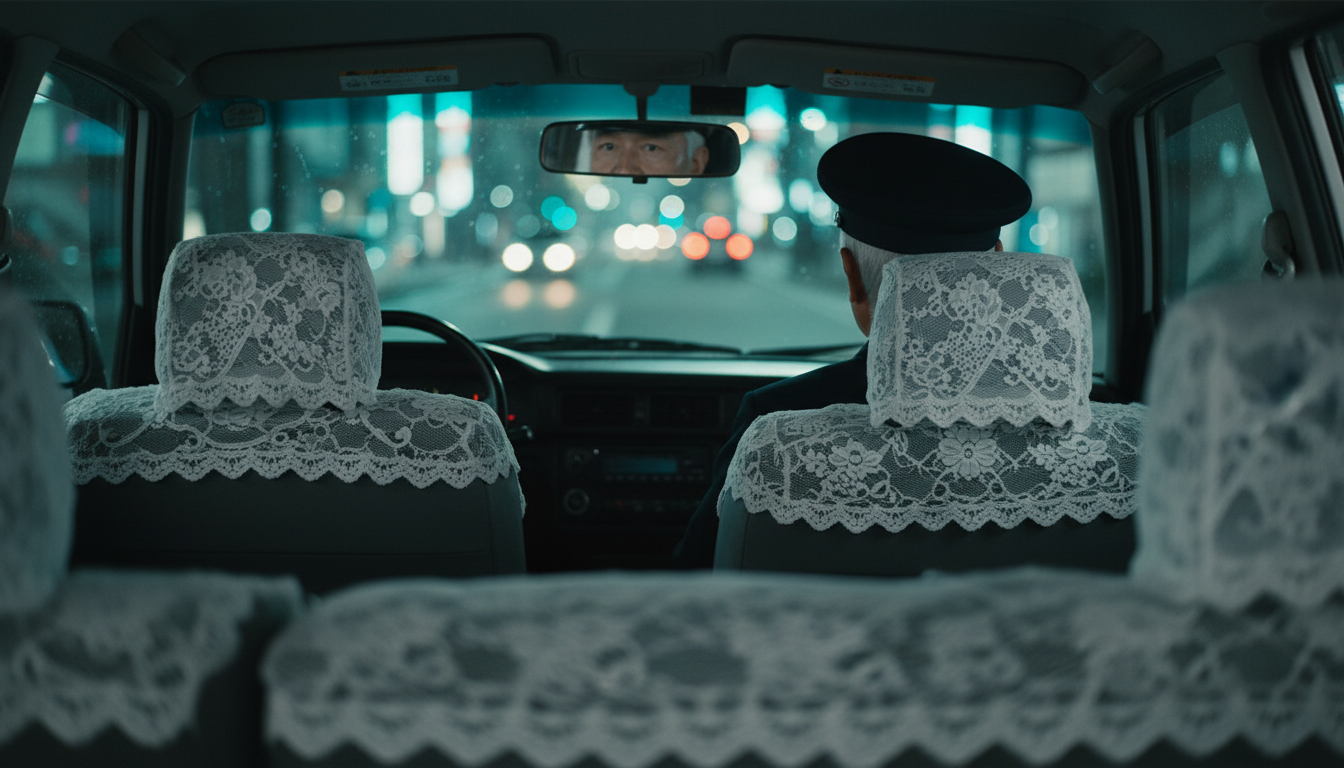
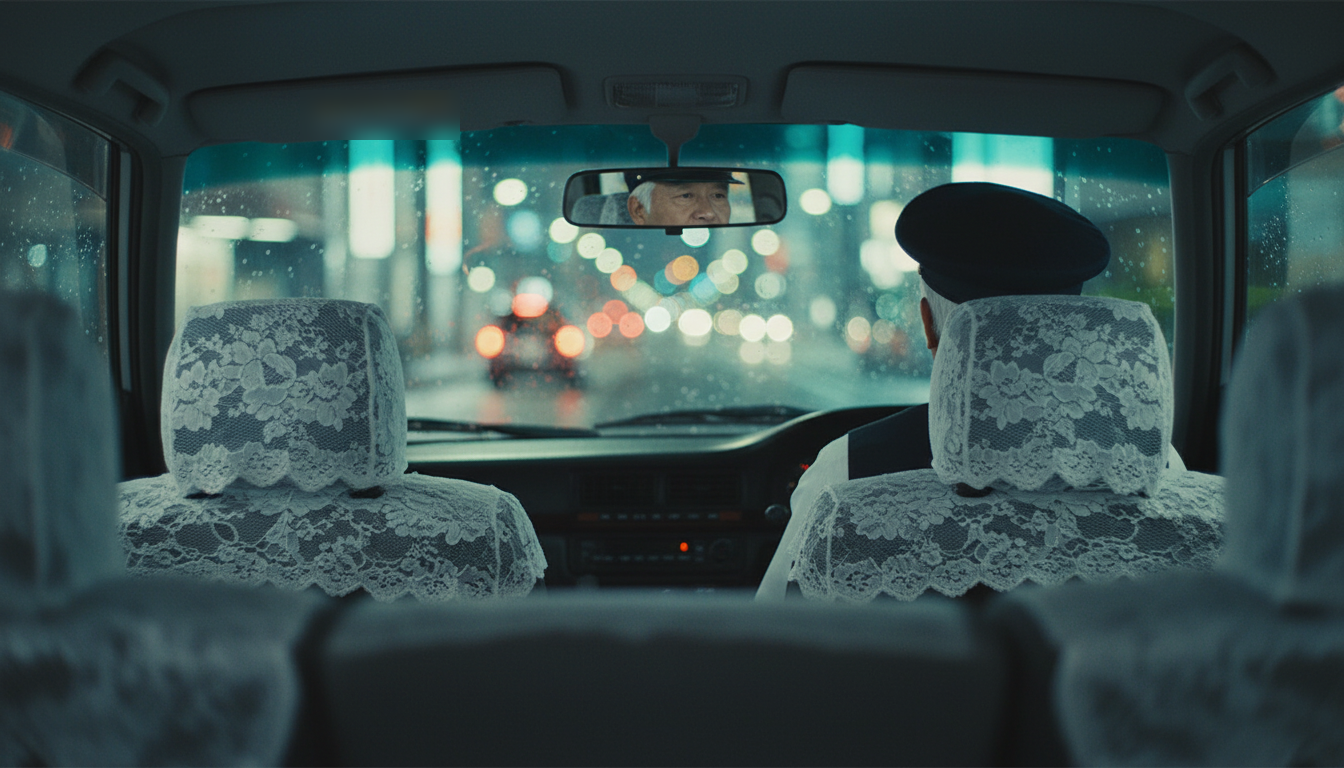
untenshu: R56 S05a 뒤에서 본 세 사람 앞보기, R57 듣는 사람 합성 마스크 얼굴 전체, R58 S15g 우핸들(반전)
Claude-Session: https://claude.ai/code/session_01P5TkBLDpA7gf9KcUyXo4TR

diff --git a/scripts/finalize_untenshu.py b/scripts/finalize_untenshu.py
@@ -43,10 +43,9 @@ NORM = f"scale={W}:{H}:force_original_aspect_ratio=increase,crop={W}:{H},fps=24,
 # 듣는 사람 합성: (말하지 않는 사람 i2v, 마스크 도형(키프레임 1344x768 좌표), 편집 카메라, 반복 필요 여부)
 LISTEN = {
     "S06e": ("assets/preview/untenshu-drv/scene01.mp4", [("rect", 0, 0, 511, 768)], "dutch5+hh"),
-    "S05e": ("assets/preview/untenshu-listen/scene01.mp4",
-             [("ell", 160, 40, 440, 320), ("poly", [(150, 320), (570, 320), (585, 768), (125, 768)])], ""),
+    "S05e": ("assets/preview/untenshu-listen/scene01.mp4", [("poly", [(0, 0), (640, 0), (640, 360), (585, 420), (570, 768), (0, 768)])], ""),   # R57 얼굴 전체가 한 클립에서(경계가 얼굴을 가르면 번짐)
     "S07e": ("assets/preview/untenshu-listen/scene02.mp4",
-             [("ell", 360, 100, 585, 360), ("poly", [(330, 370), (600, 370), (610, 768), (300, 768)])], ""),
+             [("poly", [(290, 80), (640, 80), (632, 405), (578, 468), (495, 700), (430, 768), (290, 768)])], ""),   # R57 얼굴 전체 포함
     "S10b": ("assets/preview/untenshu-fix2/scene01-3s.mp4", [("rect", 0, 0, 600, 768)], ""),   # R45 새 구도: 기사 앞 왼쪽
 }
 FX = {"S20a": "dutch7",
@@ -56,7 +55,6 @@ REDO = {
     "S06c": ("assets/preview/untenshu-fix1/scene01.mp4", 0.0, None),     # 룸미러 손님 2명(R42)
     "S06d": ("assets/preview/untenshu-fix1/scene02.mp4", 0.0, None),     # 大塚 옆 小川(R42)
     "S10a": ("assets/preview/untenshu-fix1/scene03.mp4", 0.0, None),     # 뒷좌석 무릎 위 액자(R45)
-    "S15g": ("assets/preview/untenshu-fix2/scene02.mp4", 0.0, None),     # 뒷좌석 시점 룸미러(R48)
     "S13a": ("assets/preview/untenshu/scene60.mp4", 0.0, 1.2),           # 모자가 손에 있는 구간까지 → 정지(R46)
     "S09c": ("assets/preview/untenshu/scene38.mp4", 0.0, 0.15),          # 지폐가 좌석에 놓인 첫 프레임 정지(R43)
     "S17a": ("assets/auditions/untenshu-s10b-omni/omni-S17a.mp4", 0.0, None),   # 배경 고정 립싱크(R50)
@@ -65,7 +63,7 @@ REDO = {
     "S18f": ("assets/auditions/untenshu-omni2/omni-S18f.mp4", 0.0, None),       # 당황·홍조·땀(R52)
     "S23c": ("assets/auditions/untenshu-s23c-omni/omni-S23c.mp4", 0.0, None),   # 미소 짓는 小川 립싱크(R55)
 }
-STILL_REDO = ["S06b", "S05b", "S08a", "S23b", "S13c"]   # 새 키프레임 정지+편집 카메라(R41·R42·R47)
+STILL_REDO = ["S06b", "S05b", "S08a", "S23b", "S13c", "S05a", "S15g"]   # 새 키프레임 정지+편집 카메라(R41·R42·R47·R56·R58)
 # (말하는 컷, 대사 태그, 듣는 사람 반응 클립 장면, 반응 길이) — 같은 장면의 역방향 반응(제10장 8)
 LCUT_OFF = True   # 고니감독님 「말하는 사람과 화면 인물 일치」(R44) — 듣는 사람 L컷 사용 안 함
 LCUT = [("S05e", "L07", "S05c", 1.3), ("S06e", "L11", "S06c", 1.2), ("S07e", "L14", "S07d", 1.3),

diff --git a/CLAUDE.md b/CLAUDE.md
@@ -380,7 +380,7 @@ deformed eyes, extra fingers.
 8. **전달**: 28MB 조각 + 480p + 한국어 자막 검수판(금액 통화 표기) + 업로드 패키지(제목 2안·설명 챕터·태그·SRT·썸네일 2종·쇼츠 5편과 그 한국어 검수판, 수익화 후 광고 타임코드). 도구 `make_shorts.py`·`make_thumbnails_ashita.py`·`make_ko_review_shorts_ashita.py`, 상세 `docs/제작규격-보강-ashita실증.md` 3-2절.
 9. **비립싱크 화자 컷은 정지 + 편집 카메라(2026-10-12 실증)**: 말하는 사람의 뒷모습·옆모습 i2v는 머리 고정 문장을 넣어도 2회 연속 카메라 쪽으로 돌아봤다(8컷 중 7컷). 처음부터 정지 푸시인·핸드헬드로 설계하고, i2v는 듣는 사람·말하지 않는 인물·걷는 뒷모습·손 인서트에만 쓴다. 검수는 실제 쓰는 샷 길이 안에서 판정한다.
 10. **주인공 소품의 글자는 흐림 금지 → 재생성(R54)**: 화면 중심 소품(버튼·서류·명함)의 가짜 글자를 흐림으로 지우면 얼룩이 남는다(7:35 「START」 버튼). 진짜 인서트(손·소품만 화면 가득, 「글자 없음」)로 다시 만든다. 흐림은 작은 배경 글자에만.
-10-1. **차 안·좁은 공간의 위치 관계(★31, 2026-10-14)**: 운전 중인 기사는 항상 앞유리를 본다. 뒷좌석 손님이 기사에게 말하는 컷은 대시보드 카메라로 뒷좌석을 잡고 기사는 화면 가장자리 측면 프로필로만 둔다(기사가 뒤돌아 손님과 마주 보는 어깨 너머 금지). 택시·승용차 뒷좌석 두 사람은 **나란히 앉아 몸이 앞을 향한다** — 마주 보는 어깨 너머 금지, 앞쪽 카메라에서 비스듬히 잡고 화자는 고개만 30° 돌리며 상대는 가장자리 옆모습(R37). 같은 차·방은 컷마다 묘사하지 말고 **고정 문장 하나**(좌석 색·커버·배치·핸들 방향)를 모든 컷에 넣고, 핵심 소품은 소품 시트를 참조한다(R38). PHASE 3에서 실제 좌석 배치로 컷마다 카메라 위치를 확인한다. 두 사람이 보이는 립싱크 컷은 말하지 않는 사람이 입을 움직이거나 돌아보므로, **그 사람만 움직이는 i2v(같은 키프레임, 입 닫힘·정면 유지·숨·깜빡임)를 따로 만들어 그 영역에 합성**한다(정지 고정 금지 — R34). 배경이 흐르는 차·창가 장면은 i2v에 「정차·창밖 정지」를 넣어 합성 경계를 맞춘다. 로케이션 시트 칸은 라벨이 아니라 그림을 보고 카메라 위치(안/밖·앞/뒤)를 확인해 연결한다(★32 — 우핸들 차를 앞에서 보면 운전석은 화면 왼쪽).
+10-1. **차 안·좁은 공간의 위치 관계(★31, 2026-10-14)**: 운전 중인 기사는 항상 앞유리를 본다. 뒷좌석 손님이 기사에게 말하는 컷은 대시보드 카메라로 뒷좌석을 잡고 기사는 화면 가장자리 측면 프로필로만 둔다(기사가 뒤돌아 손님과 마주 보는 어깨 너머 금지). 택시·승용차 뒷좌석 두 사람은 **나란히 앉아 몸이 앞을 향한다** — 마주 보는 어깨 너머 금지, 앞쪽 카메라에서 비스듬히 잡고 화자는 고개만 30° 돌리며 상대는 가장자리 옆모습(R37). 같은 차·방은 컷마다 묘사하지 말고 **고정 문장 하나**(좌석 색·커버·배치·핸들 방향)를 모든 컷에 넣고, 핵심 소품은 소품 시트를 참조한다(R38). PHASE 3에서 실제 좌석 배치로 컷마다 카메라 위치를 확인한다. 두 사람이 보이는 립싱크 컷은 말하지 않는 사람이 입을 움직이거나 돌아보므로, **그 사람만 움직이는 i2v(같은 키프레임, 입 닫힘·정면 유지·숨·깜빡임)를 따로 만들어 그 영역에 합성**한다(정지 고정 금지 — R34). 배경이 흐르는 차·창가 장면은 i2v에 「정차·창밖 정지」를 넣어 합성 경계를 맞춘다. 로케이션 시트 칸은 라벨이 아니라 그림을 보고 카메라 위치(안/밖·앞/뒤)를 확인해 연결한다(★32 — 우핸들 차를 앞에서 보면 운전석은 화면 왼쪽) **뒷좌석 시점·차 뒤에서 본 컷은 기사가 화면 오른쪽 앞, 운전대도 기사 앞(오른쪽)** — 키프레임 검수에 「운전대 위치」 항목을 넣는다(R58, 좌핸들로 그려지면 반전 또는 재생성). 차 뒤에서 본 컷은 세 사람 모두 앞을 본다(R56). 듣는 사람 합성 마스크 경계는 **얼굴을 지나가지 않게** 인물 전체를 덮고 상대 인물 앞에서 멈춘다(R57 — 경계가 얼굴을 가르면 두 클립이 섞여 일그러져 보인다).
 10-2. **현장감 있는 사운드(2026-10-14 고니감독님 지시 「현장감 있게 사운드」)**: 사람 장면에도 공간 환경음을 깐다 — 단 장면 영상으로 AI 현장음을 생성하지 않고(웅얼거림, 제6장 4), **목소리 없는 환경음 베드·효과음을 텍스트로 따로 생성**(ElevenLabs 사운드 생성, 구독 크레딧)해 공간별로 대사 아래 −30 LUFS 수준으로 깔고 공간 전환 0.5초 교차, 문·소품·발소리 등 동작 순간에 효과음을 맞춘다(`finalize_*.py` soundscape·FOLEY).
 11. **어두운 구간 밝기 기준(R55)**: 정전·밤 장면은 장면별 평균 밝기를 재서 **휴대폰 시청 기준 평균 40/255 미만이면** 검정은 그대로 두고 어두운 중간 톤만 곡선으로 들어 올린다(`finalize_*.py` LIFT). 얼굴이 완전히 검은 실루엣인 대사 컷을 5초 넘게 두지 않는다(얼굴이 보이는 3/4 립싱크로 재연출). 전경 소품이 화면 2/3를 가리면 편집에서 당긴다(punch).
 12. **자연 연기 제작 순서(B안 표준, 2026-10-12 실증)**: ① 대사 키프레임 = 어깨 너머 3/4 + 일하는 손(`kf_face_frame.py`로 얼굴 1/4 이상, 전경 어깨 유지) → ② 대사 3컷 시범·한국어 자막 시범 영상 승인 → ③ 사람 컷 i2v(생성기 `LIVE` 동작 문장, 감정 신체 연기) + 비립싱크 화자는 정지(`I2V_FALLBACK`) → ④ 1초 시트 검수(실제 샷 길이 안) → ⑤ 립싱크(`OMNI_ACT` 연기 지시 + 대화 맥락, 8초 초과는 분할) → ⑥ burn(바뀐 립싱크만 `invalidate`) → ⑦ 로컬 마무리(정지 재패치·편집 카메라를 새 클립 종류에 맞춰 갱신, 듣는 사람 L컷, 밝기, 후크, 아웃트로) → ⑧ 한국어 자막 검수판. 실측 비용(본편 140컷): 사람 컷 i2v 약 16달러 + 립싱크 약 11달러 ≈ 27달러.

diff --git a/productions/untenshu-ja/10_수정요청목록.md b/productions/untenshu-ja/10_수정요청목록.md
@@ -72,4 +72,6 @@
 | R53 | 「장면에 맞게 BGM도 좀 더 강하게」 | 🔧 장면별 강조 음악 7곡(후크 타격·폭언·액자 슬픔·회상 고조·정체 발각·응징·희망 결말, lyria2) 생성 → 마무리에서 해당 장면에 겹쳐 깔기(1~3kHz −4dB로 대사 보호, 페이드 인·아웃), 기존 BGM은 유지 |
 | R54 | 「(0:44) 사진 액자 같은 것이 공중에 떠서 흔들거림」 | 🔧 S02b 룸미러 아래 매달린 빈 태그(i2v가 흔듦)가 떠 있는 액자처럼 보임 → 거울 안쪽으로 1.9배 당겨 태그를 화면 밖으로(무료) |
 | R55 | 「(9:34) 후후 웃는 모습이 어색함」 | 🔧 S23c 「ふふ…だめですよ」가 손·우산 인서트 위에 얼굴 없이 나와 어색 → 열린 뒷문에서 기사 쪽을 보며 미소 짓는 小川 3/4 얼굴 립싱크로 교체(키프레임 0.08 + 립싱크 약 0.7달러) |
-| R56 | 「(1:18) 뒷좌석에서 뒤를 보면서 앞을 보며 말하는 것이 맞지 않음」 | 🔧 S05a 차 뒤에서 본 컷에서 기사가 뒤(카메라)를 돌아보고 승객 방향이 엇갈림 → 세 사람 모두 앞을 보는 뒤통수(뒷좌석 나란히 + 앞 오른쪽 운전석 기사)로 재생성 0.08달러 |
+| R56 | 「(1:18) 뒷좌석에서 뒤를 보면서 앞을 보며 말하는 것이 맞지 않음」 | ✅ S05a 차 뒤에서 본 컷에서 기사가 뒤(카메라)를 돌아보고 승객 방향이 엇갈림 → 세 사람 모두 앞을 보는 뒤통수(뒷좌석 나란히 + 앞 오른쪽 운전석 기사)로 재생성 0.08달러 |
+| R57 | 「(1:37) 얼굴 일그러짐은 화질 때문인가」 | ✅ 화질 문제가 아니라 합성 경계 문제였음. 듣는 小川(i2v)을 립싱크 위에 합성할 때 마스크 타원 경계가 얼굴을 지나가, 얼굴 절반씩 서로 다른 클립이 섞여 번짐 → S05e·S07e 마스크를 인물 전체(얼굴·몸)로 넓히고 상대 인물 앞에서 멈춤(무료). 규칙: **합성 마스크 경계는 얼굴을 지나가지 않게 한다** |
+| R58 | 「(5:56) 운전대는 왼쪽인데 택시기사는 오른쪽」 | ✅ S15g 뒷좌석 시점에서 운전대가 왼쪽(좌핸들)에 그려짐 → 같은 회차 후보 S15g-2(운전대 안 보임)를 좌우 반전해 기사를 앞 오른쪽(우핸들)에 둠, 반전된 스티커 글자는 흐림, 정지 + 편집 카메라(무료) |
